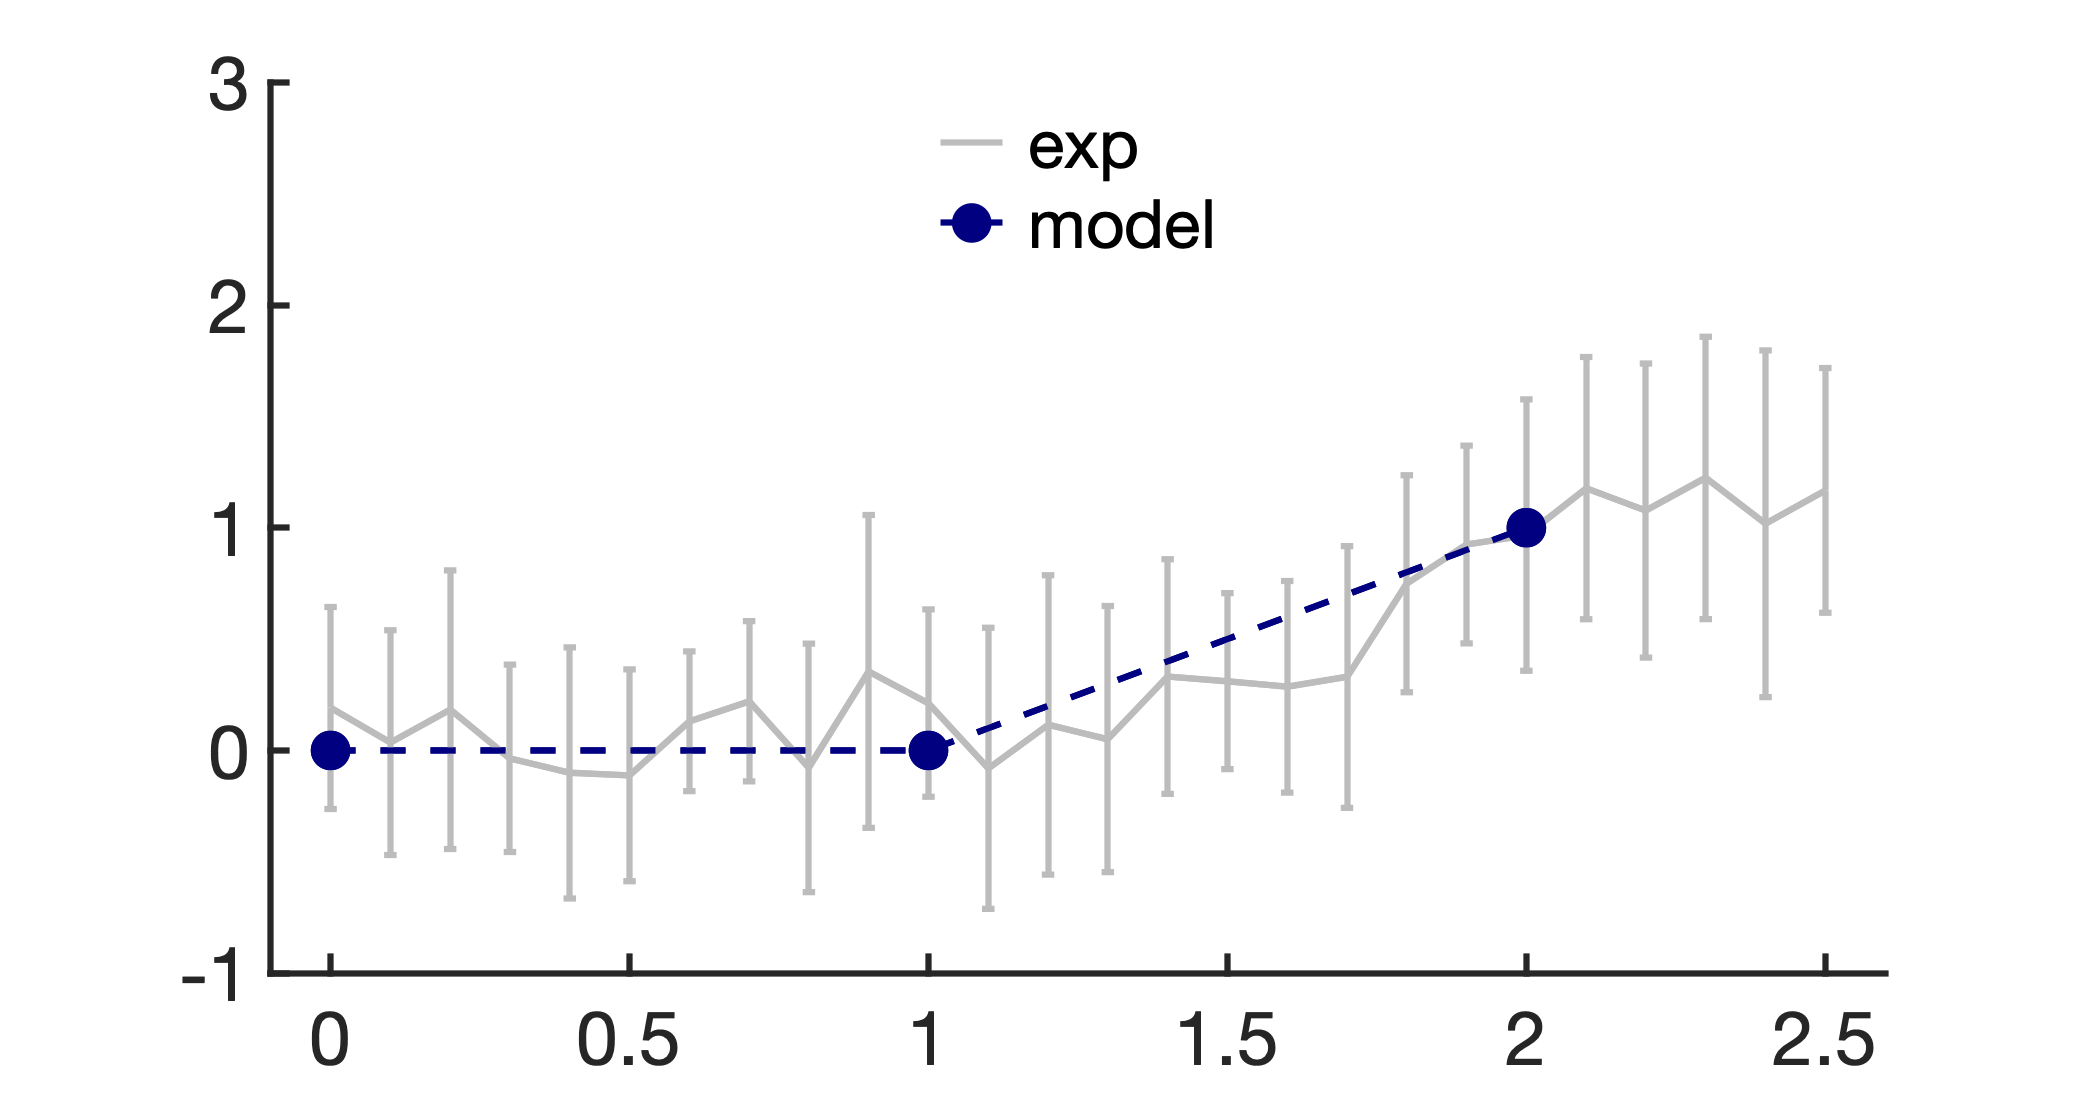
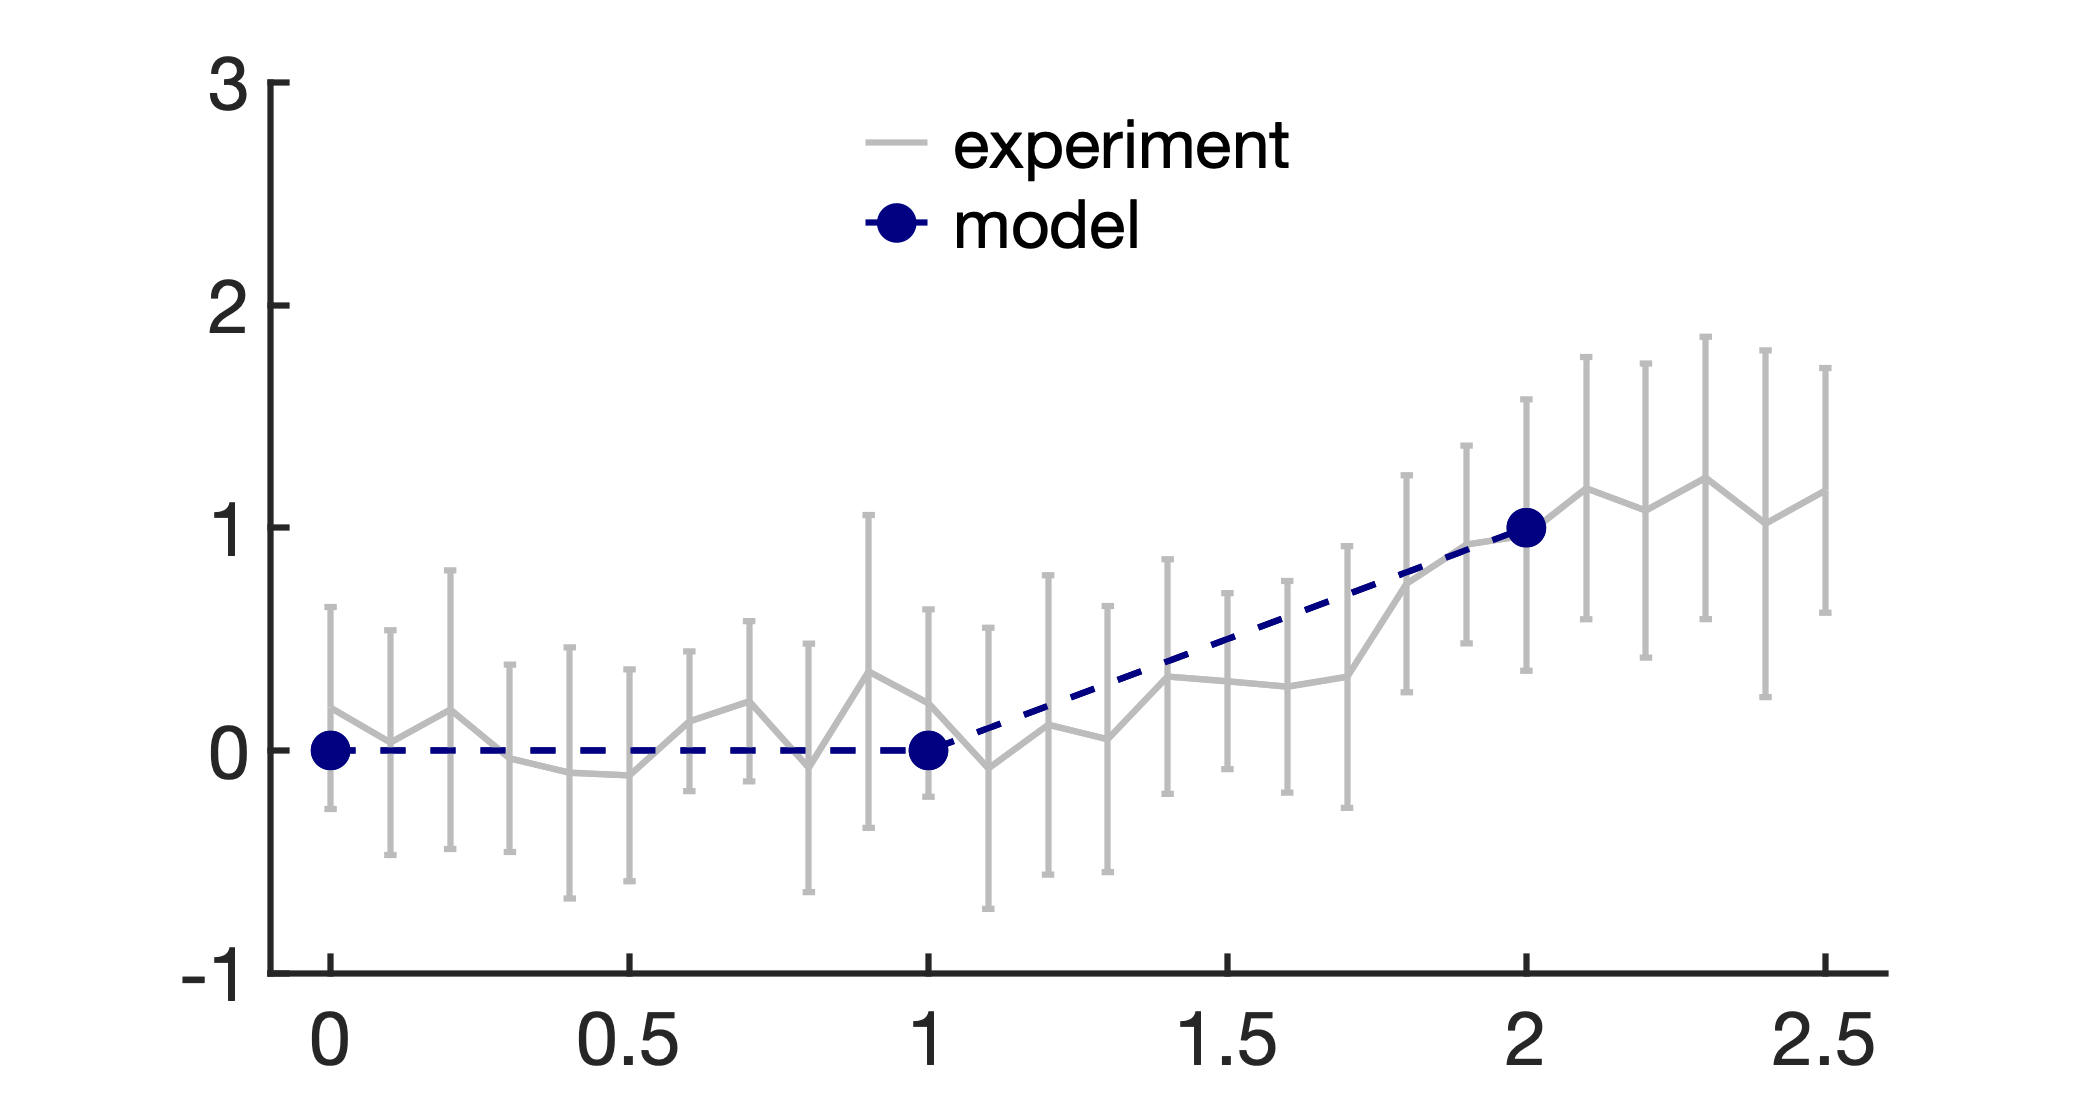
Updated Figures

Changed region(s): [[0.4057, 0.1865, 0.5929, 0.2486], [0.4057, 0.0932, 0.6241, 0.1554]]

diff --git a/modeling/Trajectories/Trajectories_Assessment/forward_model_copy_number/plot_FCS.m b/modeling/Trajectories/Trajectories_Assessment/forward_model_copy_number/plot_FCS.m
@@ -46,7 +46,7 @@ plot(expA(:,1),expA(:,2),'Linewidth',3,'Color',grey);
 plot(model_time,modelA(:,1),'--o','MarkerFaceColor',blue1,'MarkerSize',16,'Linewidth',3,'Color',blue1);
 errorbar(expA(:,1),expA(:,2),expA(:,3),'Linewidth',3,'Color',grey);
 errorbar(model_time,modelA(:,1),modelA(:,2),'--o','MarkerFaceColor',blue1,'MarkerSize',16,'Linewidth',3,'Color',blue1);
-legend({' exp',' model'},'location','north');
+legend({' experiment',' model'},'location','north');
 set(gca,'FontSize',36,'FontName','Helvetica','Linewidth',3);
 axis([-0.1 2.6 -1 3])
 legend boxoff;
@@ -60,7 +60,7 @@ plot(expB(:,1),expB(:,2),'Linewidth',3,'Color',grey);
 plot(model_time,modelB(:,1),'--o','MarkerFaceColor',blue1,'MarkerSize',16,'Linewidth',3,'Color',blue1);
 errorbar(expB(:,1),expB(:,2),expB(:,3),'Linewidth',3,'Color',grey);
 errorbar(model_time,modelB(:,1),modelB(:,2),'--o','MarkerFaceColor',blue1,'MarkerSize',16,'Linewidth',3,'Color',blue1);
-legend({' exp',' model'},'location','north');
+legend({' experiment',' model'},'location','north');
 set(gca,'FontSize',36,'FontName','Helvetica','Linewidth',3);
 axis([-0.1 2.6 -1 3])
 legend boxoff;
@@ -74,7 +74,7 @@ plot(expC(:,1),expC(:,2),'Linewidth',3,'Color',grey);
 plot(model_time,modelC(:,1),'--o','MarkerFaceColor',blue1,'MarkerSize',16,'Linewidth',3,'Color',blue1);
 errorbar(expC(:,1),expC(:,2),expC(:,3),'Linewidth',3,'Color',grey);
 errorbar(model_time,modelC(:,1),modelC(:,2),'--o','MarkerFaceColor',blue1,'MarkerSize',16,'Linewidth',3,'Color',blue1);
-legend({' exp',' model'},'location','north');
+legend({' experiment',' model'},'location','north');
 set(gca,'FontSize',36,'FontName','Helvetica','Linewidth',3);
 axis([-0.1 2.6 -1 3])
 legend boxoff;

diff --git a/modeling/Trajectories/Trajectories_Assessment/SAXS_comparison/plot_FoXS_output.m b/modeling/Trajectories/Trajectories_Assessment/SAXS_comparison/plot_FoXS_output.m
@@ -42,7 +42,7 @@ errorbar(SS1_0(:,1),SS1_0(:,2),SS1_0(:,3),'Linewidth',3,'Color',grey);
 plot(SS1_0(:,1),SS1_0(:,4),'Linewidth',3,'Color',blue1);
 plot(SS2_0(:,1),SS2_0(:,4),'Linewidth',3,'Color',blue2);
 plot(SS3_0(:,1),SS3_0(:,4),'Linewidth',3,'Color',blue3);
-legend({' exp',' 1',' 2', ' 3'},'location','northeast');
+legend({' experiment',' state 1',' state 2', ' state 3'},'location','northeast');
 set(gca,'FontSize',36,'FontName','Helvetica','Linewidth',3,'YScale', 'log');
 axis([0 0.5 10^4 3*10^6]);
 xticks([0;0.1;0.2;0.3;0.4;0.5]);
@@ -63,7 +63,7 @@ errorbar(SS1_1(:,1),SS1_1(:,2),SS1_1(:,3),'Linewidth',3,'Color',grey);
 plot(SS1_1(:,1),SS1_1(:,4),'Linewidth',3,'Color',blue1);
 plot(SS2_1(:,1),SS2_1(:,4),'Linewidth',3,'Color',blue2);
 plot(SS3_1(:,1),SS3_1(:,4),'Linewidth',3,'Color',blue3);
-legend({' exp',' 1',' 2', ' 3'},'location','northeast');
+legend({' experiment',' state 1',' state 2', ' state 3'},'location','northeast');
 set(gca,'FontSize',36,'FontName','Helvetica','Linewidth',3,'YScale', 'log');
 axis([0 0.5 10^4 10^7]);
 xticks([0;0.1;0.2;0.3;0.4;0.5]);
@@ -80,7 +80,7 @@ plot(SS1_2(:,1),SS1_2(:,2),'Linewidth',3,'Color',grey);
 plot(SS1_2(:,1),SS1_2(:,4),'Linewidth',3,'Color',blue1);
 errorbar(SS1_2(:,1),SS1_2(:,2),SS1_2(:,3),'Linewidth',3,'Color',grey);
 plot(SS1_2(:,1),SS1_2(:,4),'Linewidth',3,'Color',blue1);
-legend({' exp',' 1'},'location','northeast');
+legend({' experiment',' state 1'},'location','northeast');
 set(gca,'FontSize',36,'FontName','Helvetica','Linewidth',3,'YScale', 'log');
 axis([0 0.5 10^4 4*10^7]);
 xticks([0;0.1;0.2;0.3;0.4;0.5]);

diff --git a/modeling/Snapshots/Snapshots_Assessment/exhaust_1_2min/plot_exhaust.m b/modeling/Snapshots/Snapshots_Assessment/exhaust_1_2min/plot_exhaust.m
@@ -40,7 +40,7 @@ plot(x,y_p,'--','MarkerFaceColor',color5,'MarkerSize',8,'Linewidth',3,'Color',co
 plot(x,y_V,'--','MarkerFaceColor',color3,'MarkerSize',8,'Linewidth',3,'Color',color3);
 plot(x,y_pop,'--','MarkerFaceColor',color4,'MarkerSize',8,'Linewidth',3,'Color',color4);
 plot(x2,y2,'--k','MarkerSize',8,'Linewidth',3);
-legend({' \chi^2 p-value',' Cramer''s V',' % clustered'},'location','west');
+legend({' \it\chi^2\rm p-value',' Cramer''s \itV\rm',' % clustered'},'location','west');
 set(gca,'FontSize',36,'FontName','Helvetica','Linewidth',3);
 axis([0 24 0 1]);
 legend boxoff;
